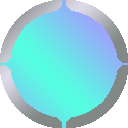
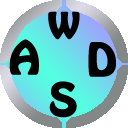
smart phone control
add WASD and space

diff --git a/hogehoge13.html b/hogehoge13.html
@@ -12,7 +12,7 @@
 	<body>
 		
 		<div id="canvas3d" style="position:fixed; top:60px; left:0px; width:100%; height:100%; z-index: 1; background-color: #000000;"></div>
-		<canvas id="canvas2d" style="position:fixed; top:60px; left:0px; width:100%; height:100%; z-index: 100; background-color:rgba(0,0,0,0);"></canvas>
+		<canvas id="canvas2d" style="position:fixed; top:60px; left:0px; z-index: 100; background-color:rgba(0,0,0,0);"></canvas>
 		<div id="info">
 		Copyright
 		<a href="https://github.com/takahirox/MMDLoader-app#readme" target="_blank">MMD Assets license</a>
@@ -21,7 +21,7 @@
 		<a href="http://www.nicovideo.jp/mylist/1713647" target="_blank">Motion Data</a>
 		<a href="https://bowlroll.net/file/154665" target="_blank">Motion Data</a>
 		<a href="https://github.com/miu200521358/vmd_sizing/blob/master/README.md" target="_blank">vmd_sizing</a>
-		<p>WASD:走る、 SHIFT+WASD:歩く、スペース:ジャンプ、クリックで視点移動</p>
+		<p>WASD:走る、 SHIFT+WASD:歩く、スペース:ジャンプ、クリック(ドラッグ)で視点移動</p>
 		</div>
 		
 		<script src="https://cdnjs.cloudflare.com/ajax/libs/three.js/110/three.min.js"></script>
@@ -46,14 +46,48 @@
 		<script>
 			script_version = 13;
 			scaleOfWorld =1;
+			var UIType = 0;
+			const ua = navigator.userAgent;
+			if (ua.indexOf('iPhone') > -1 || (ua.indexOf('Android') > -1 && ua.indexOf('Mobile') > -1)) {
+			    // スマートフォン
+			    UIType = 1;
+			} else if (ua.indexOf('iPad') > -1 || ua.indexOf('Android') > -1) {
+			    // タブレット
+			    UIType = 2;
+			} else {
+			    // PC
+			}
+
 			let canvas_ = document.getElementById('canvas2d');
-			let ctx = canvas_.getContext("2d");;
-			const chara = new Image();
-			chara.src = "./canvas/sousa.png";  // 画像のURLを指定
-			chara.onload = () => {
-				ctx.drawImage(chara, canvas_.width*0.1, canvas_.height*0.7,
-							 canvas_.width*0.2, canvas_.height*0.2);
-			};
+			
+			canvas_.width = window.innerWidth;
+			canvas_.height = window.innerHeight;
+			
+			let ctx = canvas_.getContext("2d");
+			const sousa = new Image();
+			sousa.src = "./canvas/sousa.png";  // 画像のURLを指定
+			const space = new Image();
+			space.src = "./canvas/space.png"; 
+			
+			// スマホなら表示する項目
+			if(UIType>0){
+				sousa.onload = () => {
+					ctx.drawImage(sousa, 0, canvas_.height*0.7,
+								 canvas_.height*0.2, canvas_.height*0.2);
+				};
+				
+				space.onload = () => {
+					ctx.drawImage(space, canvas_.height*0.25, canvas_.height*0.75,
+								 canvas_.height*0.14, canvas_.height*0.14);
+				};
+			}
+			
+			function drawText( str_ ) {
+				ctx.clearRect(0, 0, canvas_.width, canvas_.height*0.1);
+			  	ctx.font = '10px Times Roman';
+			  	ctx.fillStyle = 'rgba( 50, 200, 255)';
+			  	ctx.fillText( str_, canvas_.width*0.22, 9);
+			}
 			
 			
 			// Our Javascript will go here.
@@ -298,16 +332,34 @@
 			
 			// 時計
 			clock = new THREE.Clock();
+			let time =0;
 			function animate() {
 				window.requestAnimationFrame( animate );
 				// 現在の1フレームの長さを取得
 				var frameTime = Math.min(clock.getDelta(), 0.05);
+				//
+				timeOfUserActionProc		=0;
+				timeOfUserAnimationProc		=0;
+				timeOfFriendActionProc		=0;
+				timeOfFriendAnimationProc	=0;
 				//MainLoop.js
 				mainLoop(frameTime);
 				// stats (fpsメーター)
 				stats.update();
+				
 				// シーンを描画
+				let t0 = performance.now(); 
 				renderer.render( scene, camera );
+				let t1 = performance.now(); 
+				timeOfRendering = t1-t0;
+				if(time%30==0){
+					drawText( 'R:'+timeOfRendering.toFixed(3)+', '
+							 +', Uc:'+timeOfUserActionProc.toFixed(3)+', Ua:'+timeOfUserAnimationProc.toFixed(3)
+							 +', Fc:'+timeOfFriendActionProc.toFixed(3)+', Fa:'+timeOfFriendAnimationProc.toFixed(3)
+							 );
+				}
+				time +=1;
+				if(time>10000){time=0;}
 			}
 			animate();
 			

diff --git a/scripts/v10/mouseCallBack.js b/scripts/v10/mouseCallBack.js
@@ -1,8 +1,7 @@
-
 var canvas2d_ = document.getElementById('canvas2d');
 var cW = canvas2d_.offsetWidth;
 var cH = canvas2d_.offsetHeight;
-let r_control = Math.sqrt((cW*0.1)**2 + (cH*0.1)**2);
+let r_control = cH*0.1;
 
 // マウスが動いたとき
 //
@@ -14,16 +13,20 @@ canvas2d_.addEventListener('mousemove', e => {
 // マウスが押されたとき
 canvas2d_.addEventListener('mousedown', e => {
   	mouseDrag = 1;
-  	//console.log( mousex +','+mousey );
+  	//console.log( canvas2d_ );
 });
 // マウスが離されたとき
 canvas2d_.addEventListener('mouseup', e => {
   	mouseDrag = 0;
 });
 
+//------------------------------------------------------------------------------
+
+Bcontrol = new MyButton(canvas2d_, 0, cH*0.7, cH*0.2, cH*0.2, 0 );
+Bspace = new MyButton(canvas2d_, cH*0.25, cH*0.75, cH*0.14, cH*0.14, 32 );
 
 
-// タッチされたとき
+// タッチでドラッグされたとき
 canvas2d_.addEventListener("touchmove", function(e) {
     // スクロール無効化                                     
     e.preventDefault();
@@ -33,17 +36,13 @@ canvas2d_.addEventListener("touchmove", function(e) {
 	mouseDrag = 0;
 	for (let i = 0; i <touch_Num; i++) {
 	    touchInfo[i] = e.touches[i];   
-		
 	    //
 	    if(touchControl ==1 && touchControlId == touchInfo[i].identifier ) {
-	    	let tx_control = touchInfo[i].pageX - cW*0.2 ;
-		    let ty_control = touchInfo[i].pageY - cH*0.8 -canvas2d_.offsetTop;
+	    	Bcontrol.resetControl();
+	    	let tx_control = touchInfo[i].pageX - Bcontrol.centerX;
+		    let ty_control = touchInfo[i].pageY - Bcontrol.centerY;
 		    let tr_control = Math.sqrt(tx_control**2 + ty_control**2);
-		    key_on[65]=0;
-			key_on[68]=0;
-			key_on[83]=0;
-			key_on[87]=0;
-	    	if(tr_control>r_control*0.3){
+	    	if(tr_control>r_control*0.2){
 	    		if(Math.abs(tx_control) > Math.abs(ty_control)){
 	    			if( tx_control>0) {key_on[68]=1;}else{key_on[65]=1;}
 	    		}else{
@@ -59,7 +58,7 @@ canvas2d_.addEventListener("touchmove", function(e) {
 	
 });
 
-// タッチされたとき
+// (新たに)タッチされたとき
 canvas2d_.addEventListener("touchstart", function(e) {
     e.preventDefault();     // 
 	// max 3 touches
@@ -67,8 +66,8 @@ canvas2d_.addEventListener("touchstart", function(e) {
 	touchInfo =[];
 	for (let i = 0; i <touch_Num; i++) {
 	    touchInfo[i] = e.touches[i];   
-	    let tx_control = touchInfo[i].pageX - cW*0.2 ;
-	    let ty_control = touchInfo[i].pageY - cH*0.8 -canvas2d_.offsetTop;
+	    let tx_control = touchInfo[i].pageX - Bcontrol.centerX;
+	    let ty_control = touchInfo[i].pageY - Bcontrol.centerY;
 	    let tr_control = Math.sqrt(tx_control**2 + ty_control**2);
 	    //console.log(touchInfo);
 	    //
@@ -76,6 +75,7 @@ canvas2d_.addEventListener("touchstart", function(e) {
 	    	touchControl = 1;
 	    	touchControlId = touchInfo[i].identifier;
 	    }else{
+	    	Bspace.onButtonThenPush(touchInfo[i].identifier, touchInfo[i].pageX, touchInfo[i].pageY);
 	    }
 	}
 
@@ -89,23 +89,31 @@ canvas2d_.addEventListener("touchend", function(e) {
 	let touch_Num = Math.min(e.touches.length, 3);
 	touchInfo =[];
 	//console.log(touchInfo);
+	// 移動ドラッグ
+	let touchControl_exist = 0;
 	
-	touchControl = 0;
-	key_on[65]=0;
-	key_on[68]=0;
-	key_on[83]=0;
-	key_on[87]=0;
+	// 全てリセット
+	Bcontrol.resetControl();
 	mouseDrag = 0;
+	key_on[Bspace.key] = 0;
+		
 	for (let i = 0; i <touch_Num; i++) {
+		// 離れたときに残ったものしか格納されない
 	    touchInfo[i] = e.touches[i];   
-	    
 	    //
 	    if(touchControl ==1 && touchControlId == touchInfo[i].identifier ) {
-	    	touchControl = 1;
+	    	touchControl_exist = 1;
 	    }else{
+	    	//基本的にmouseDragは維持
 	    	mouseDrag = 1;
+	   	    		
 	    }
 	}
+
+	//
+	if(	touchControl_exist ==0 ){touchControl=0;}
+	//console.log(touchControl);
+	
 }, false);
 
 			

diff --git a/scripts/v10/playerAction.js b/scripts/v10/playerAction.js
@@ -1,6 +1,6 @@
 //プレーヤーの移動
 function userMove(frameTime, agent) {
-	
+	let t0 = performance.now();  
 	if(!agent.mesh){agent.mesh=	agent.chara.mesh;}
 	//　マウス位置で方向転換
 	var canvasWidth = renderer.domElement.offsetWidth;
@@ -146,6 +146,8 @@ function userMove(frameTime, agent) {
 	agent.chara.mesh.position.x = agent.position.x;
 	agent.chara.mesh.position.y = agent.position.y;
 	agent.chara.mesh.position.z = agent.position.z;
+	let t1 = performance.now();  
+	return t1-t0;
 }
 
 
@@ -155,6 +157,7 @@ function userMove(frameTime, agent) {
 //NPCの移動
 function npcMove(frameTime, agent) {
 	
+	let t0 = performance.now();  
 	if(!agent.mesh){agent.mesh=	agent.chara.mesh;}
 
 	// ターゲット決定
@@ -168,7 +171,7 @@ function npcMove(frameTime, agent) {
 	const bsCenterLocal = new THREE.Vector3(bSphere.center.x, bSphere.center.y, bSphere.center.z);
 	const bsCenter = bsCenterLocal.clone().add(agent.position);
 
-	if(!target.chara.mesh){return false;}
+	if(!target.chara.mesh){return 0;}
 	// Rayの向き
 	const bSphere_t = target.chara.mesh.geometry.boundingSphere;
 	let destPosition = target.position;
@@ -293,6 +296,8 @@ function npcMove(frameTime, agent) {
 	agent.chara.mesh.position.x = agent.position.x;
 	agent.chara.mesh.position.y = agent.position.y;
 	agent.chara.mesh.position.z = agent.position.z;
+	let t1 = performance.now();  
+	return t1-t0;
 }
 
 
@@ -317,6 +322,7 @@ function npcMove(frameTime, agent) {
 
 // モーションを更新
 function updateAction(frameTime, agent){
+	let t0 = performance.now();  
 	let actions = agent.chara.actions;
 	// motionが切り替わった時
 	if(agent.lastMotion != agent.selectMotion){
@@ -335,6 +341,9 @@ function updateAction(frameTime, agent){
 	
 	agent.chara.helper.update( frameTime );
 	agent.lastMotion = agent.selectMotion;
+	let t1 = performance.now();  
+	return t1-t0;
+	
 }
 
 

diff --git a/scripts/v10/Common.js b/scripts/v10/Common.js
@@ -1,3 +1,11 @@
+
+// time
+var timeOfRendering;
+var timeOfUserActionProc;
+var timeOfUserAnimationProc;
+var timeOfFriendActionProc;
+var timeOfFriendAnimationProc;
+
 //キーボード情報
 var key_on;
 
@@ -53,6 +61,47 @@ var MyAgent = function(){
 		var z_ = Math.cos(this.rotationUp+this.offsetRotationUp) * Math.sin(this.rotationRight+this.offsetRotationRight); 
 		this.viewVect = new THREE.Vector3(x_, y_, z_);
 	}
+	
+}
+
+
+// Agent object
+var MyButton = function(canvas_, X_, Y_, width_, height_, key_ ){
+	this.width = width_;
+	this.height = height_;
+	this.radius = Math.sqrt(width_**2 + height_**2);
+	this.x = X_+canvas2d_.offsetLeft;
+	this.y = Y_+canvas2d_.offsetTop;
+	this.centerX = X_ +  width_/2 +canvas_.offsetLeft;
+	this.centerY = Y_ + height_/2 +canvas_.offsetTop;
+	this.key = key_;
+	this.keyUp=87;	//w
+	this.keyDown=83;	//s
+	this.keyLeft=68;	//a
+	this.keyRight=65;	//d
+	this.touchId;
+	this.resetControl = function(){
+		key_on[this.keyUp]=0;
+		key_on[this.keyDown]=0;
+		key_on[this.keyLeft]=0;
+		key_on[this.keyRight]=0;
+		//console.log(key_on[this.keyRight]);
+	}
+	this.resetButton = function(){
+		key_on[this.key]=0;
+	}
+	this.pushButton = function(){
+		key_on[this.key]=1;
+	}
+	this.onButtonThenPush = function(id_, x_, y_){
+		if( x_ >= this.x && x_ <= this.x+this.width &&
+			y_ >= this.y && y_ <= this.y+this.height ){
+				key_on[this.key]=1;
+				this.touchId = id_;
+				
+		}	
+	}
+
 	
 }
 

diff --git a/scripts/v10/MainLoop.js b/scripts/v10/MainLoop.js
@@ -4,8 +4,8 @@ function mainLoop(frameTime) {
 	
 	if(player.chara._isLoaded>1){
 		// playerAction.js
-		userMove(frameTime, player);
-		updateAction(frameTime, player);
+		timeOfUserActionProc = userMove(frameTime, player);
+		timeOfUserAnimationProc	= updateAction(frameTime, player);
 		cameraUpDate(player);
 		
 	}else if(player.chara._isLoaded==1 && player.chara.animations[0]){
@@ -19,8 +19,8 @@ function mainLoop(frameTime) {
 			// 他キャラ
 			if(friend[i].chara._isLoaded>1){
 				// playerAction.js
-					npcMove(frameTime, friend[i]);
-					updateAction(frameTime, friend[i]);
+					timeOfFriendActionProc += npcMove(frameTime, friend[i]);
+					timeOfFriendAnimationProc += updateAction(frameTime, friend[i]);
 			}else if(friend[i].chara._isLoaded==1 && friend[i].chara.animations[i]){
 				initAction(friend[i].chara);
 				console.log(friend[i]);
